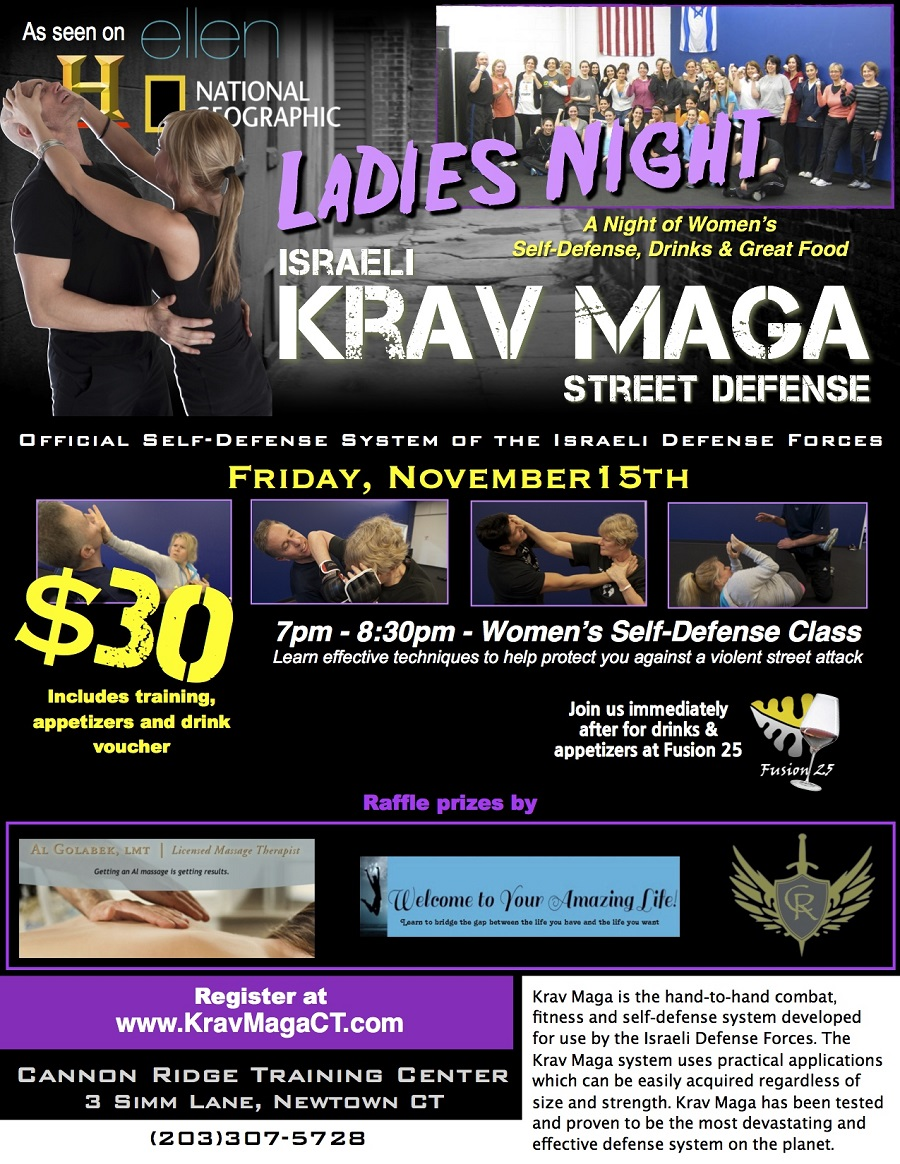
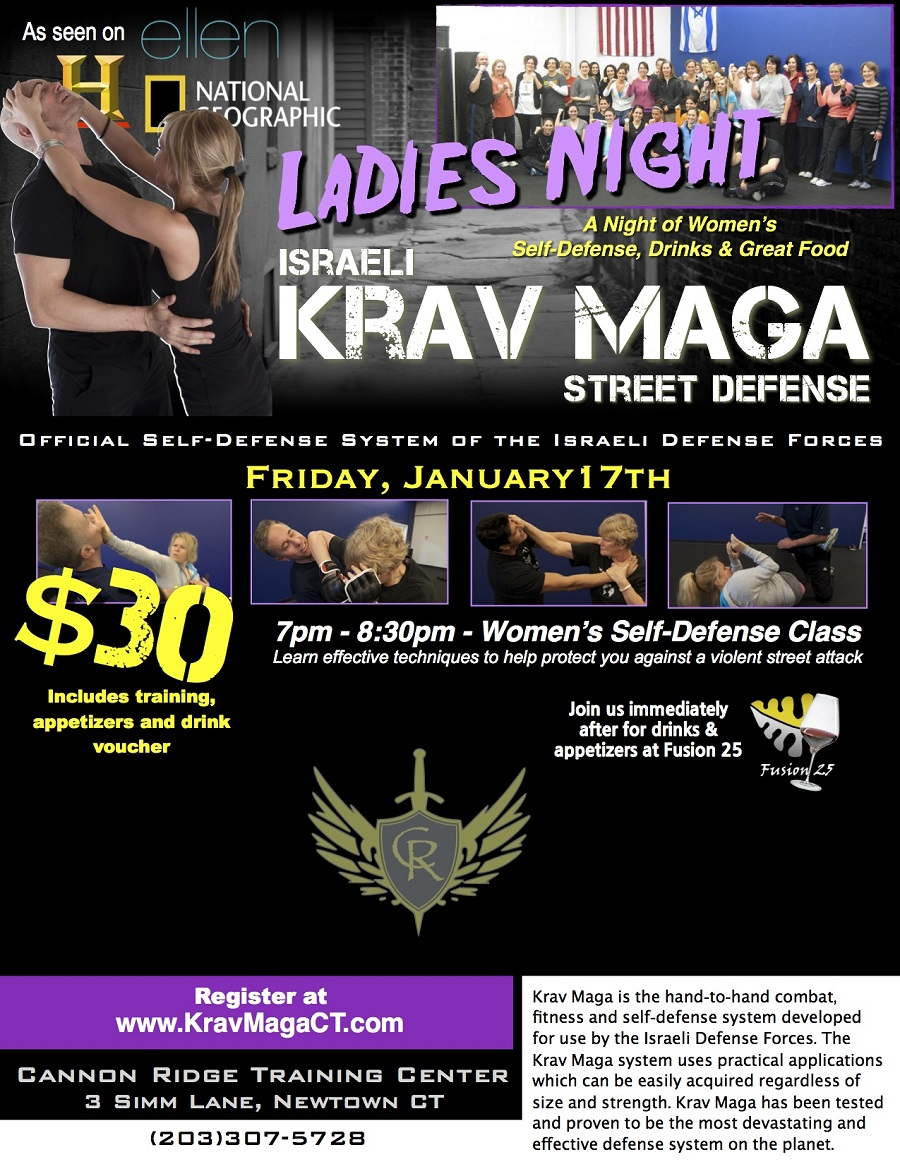
new ladies night and about

Changed region(s): [[0.0, 0.6495, 1.0, 0.8351], [0.2489, 0.4021, 0.7778, 0.433]]

diff --git a/page_about.html b/page_about.html
@@ -96,6 +96,10 @@
 				<h3>Chris Berlin</h3>
                 <p>Chris is a life long martial artist and personal trainer. He has studied Kickboxing, Boxing, Kung Fu, Muay Thai, and brings the martial arts principles to working with and teaching clients.  His personal instruction uses techniques borrowed from centuries of martial arts proven to work with athletes of a wide array of sports as well as people just looking to start getting in shape.</p>	
 			</div>
+			<div class="span3">
+				<h3>Dan Schwartz</h3>
+                <p>Dan is a former wrestler and hockey player that has been a personal trainer in both New York City and Danbury for the past 3 years. Dan specializes in one-on-one training with a heavy focus on weight lifting and Boxing Fitness, having trained under a former Golden Gloves competitor. He incorporates both aspects of training into his sessions to bring out the best in his clients.</p>	
+			</div>
 		</div>
 
 		<div class="row-fluid">
@@ -108,9 +112,11 @@
 			<div class="thumbnail-style span3">
 				<img src="assets/img/about/chris_b_quote.jpg" alt="" />
 			</div>
+			<div class="thumbnail-style span3">
+				<img src="assets/img/about/dan_quote.jpg" alt="" />
+			</div>
 		</div>
-			
-
+		
 
 	<!-- //End Meer Our Team -->
 

diff --git a/footer.html b/footer.html
@@ -7,7 +7,7 @@
                 <div class="accordion-group">
                   <div class="accordion-heading">
                     <a class="accordion-toggle" data-toggle="collapse" data-parent="#accordion2" href="#collapseOne">
-                      Ladies Night coming Friday, November 15th!
+                      Ladies Night coming Friday, January 17th!
                     </a>
                   </div>
                   <div id="collapseOne" class="accordion-body in collapse" style="height: auto;">
@@ -84,6 +84,7 @@
 						</div>
 
 						</form>
+					
 
 						</div><!--/span4--> 			
 					<div class="span6"> 
@@ -126,6 +127,7 @@
 				</div>	
 				
 			</div> 
+			
 		</div><!--/row-fluid-->	
 
 
@@ -180,8 +182,11 @@
 		);
 		$('#confirmEmailDialog').modal('toggle')
 	});
-</script>
 	
+
+</script>
+
+
 	
 	
 	
